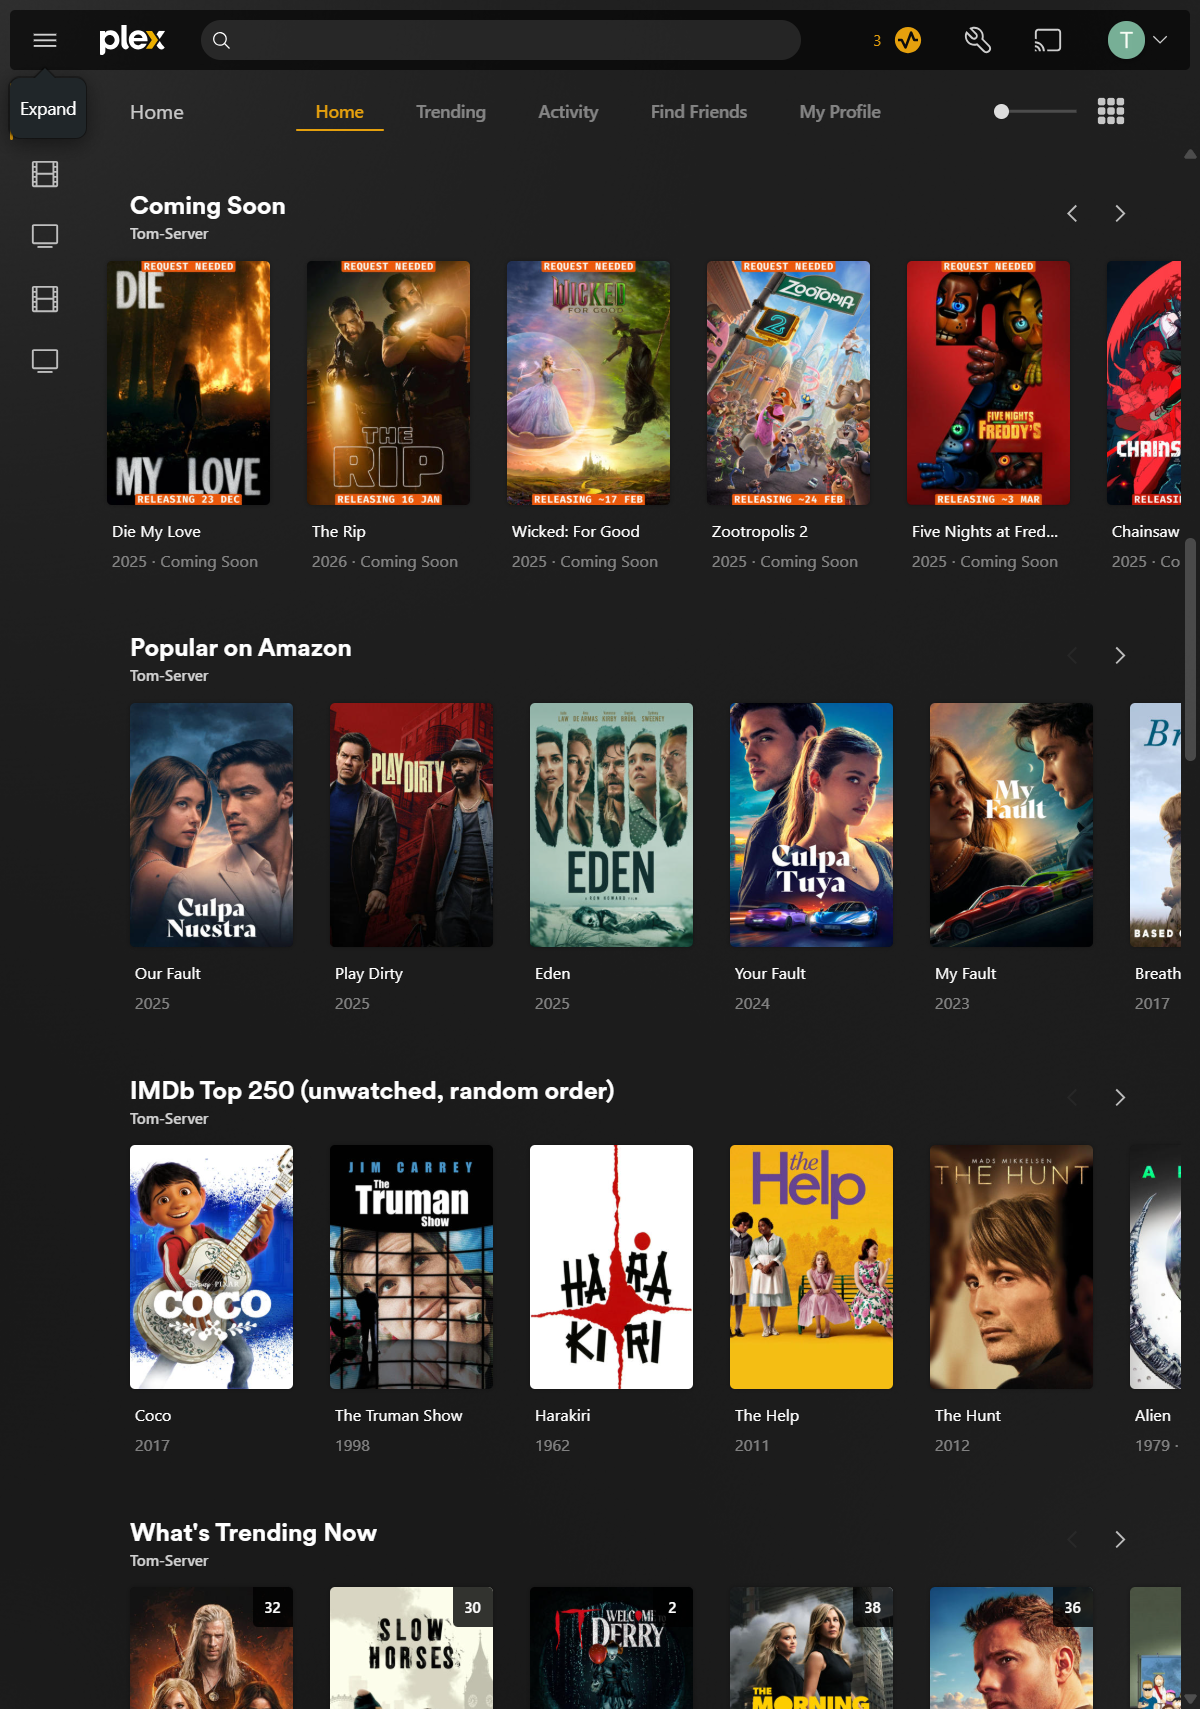
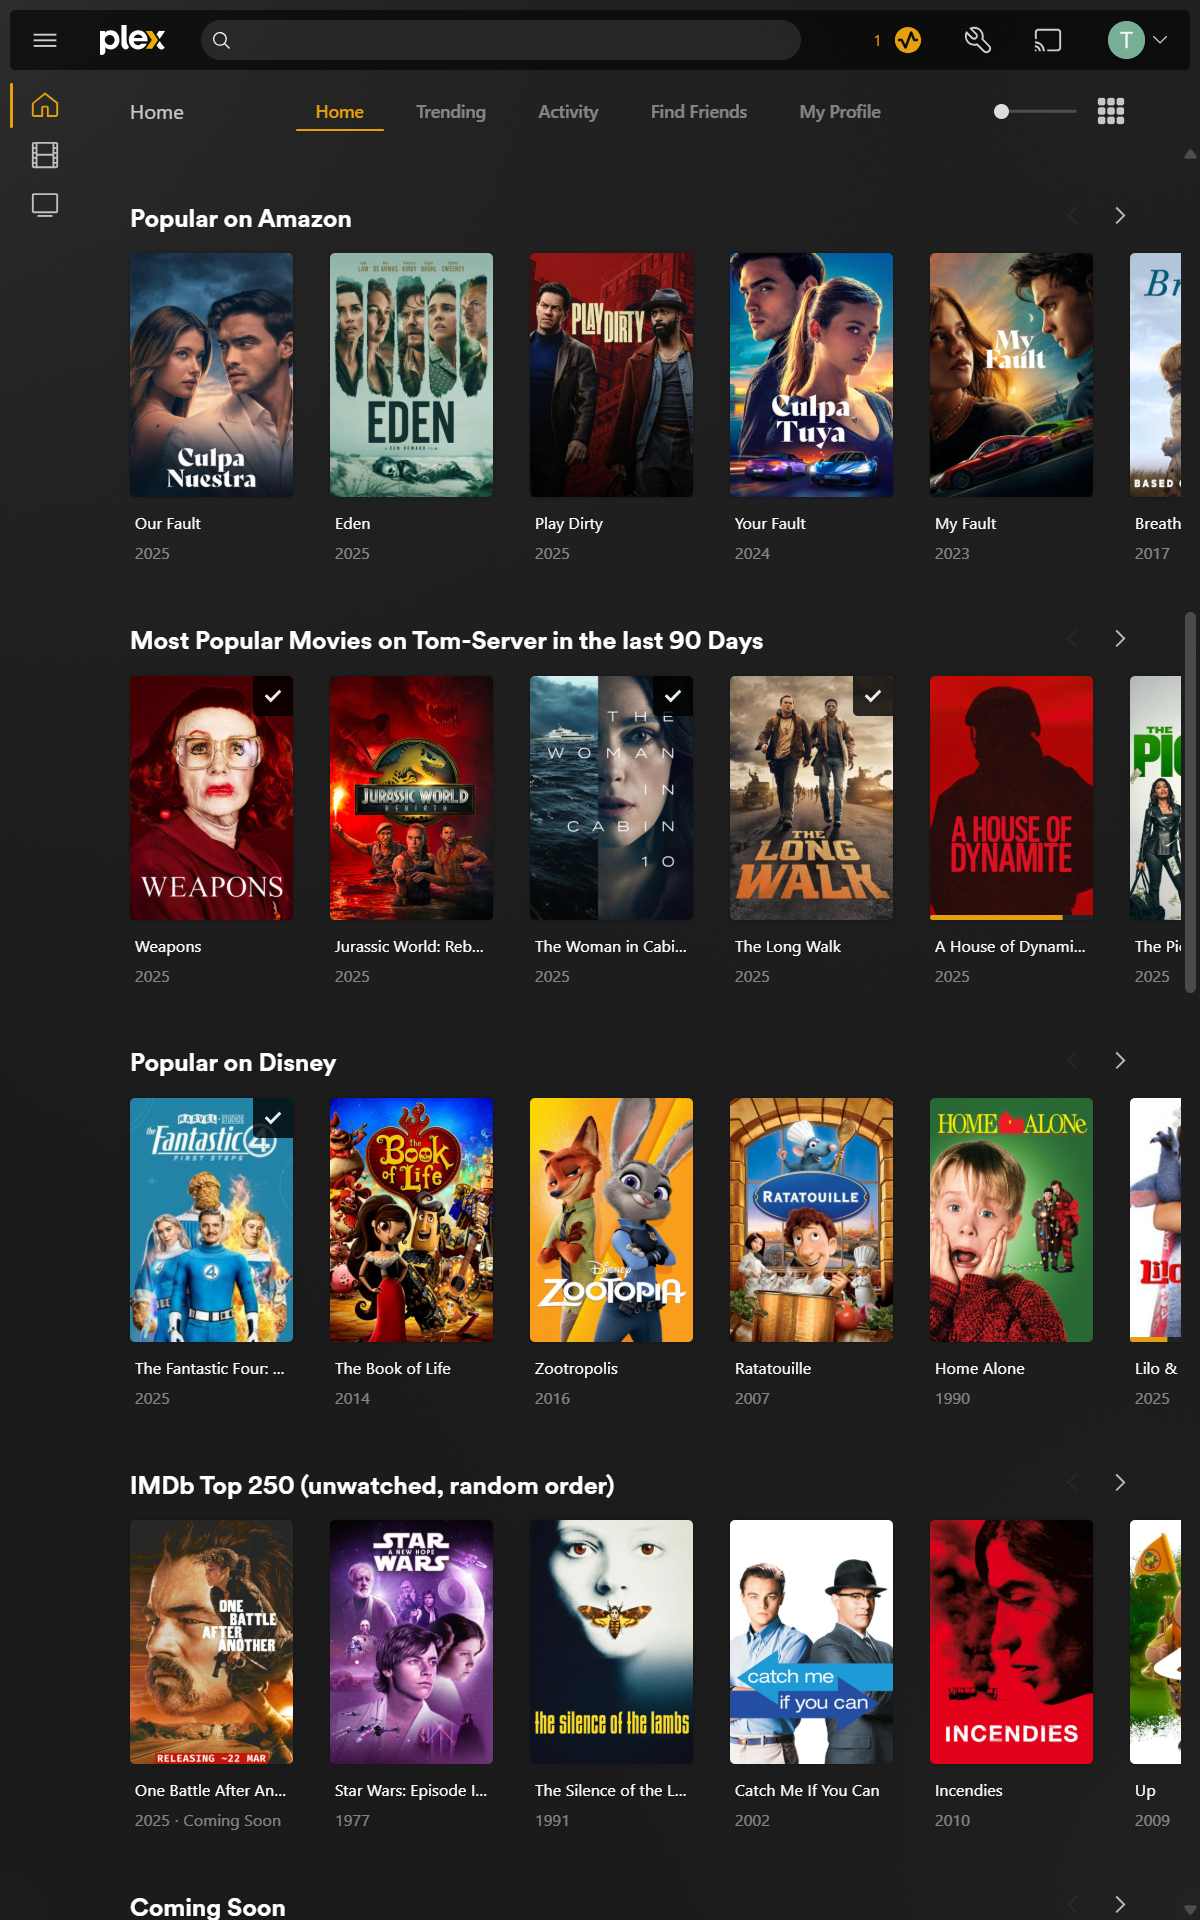
update docs

diff --git a/docs/faq/index.md b/docs/faq/index.md
@@ -12,7 +12,7 @@ title: FAQ
 A Plex Collections Manager that automatically creates collections from lists from sources like Trakt, IMDb, TMDb, Letterboxd and many more.
 It also allows full control of visibility and order on the Plex Home screen, helping you create a more dynamic feel much like streaming services.
 
-For example, you could add Trakt Trending, IMDb Top 250, and Top 10 on Amazon Prime collections, which when selected to appear on the Home screen, would appear in Plex something like below.
+For example, you could add Trakt Trending, IMDb Top 250, some Networks Top 10's (Amazon Prime, Disney, Netflix etc), and a Tautulli Statistics collection, which when selected to appear on the Home screen, would appear in Plex something like this.
 
 ![Plex Sign-In](/img/home-preview.png)
 
